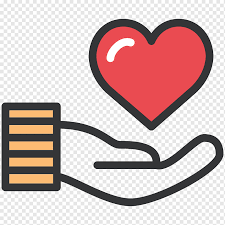
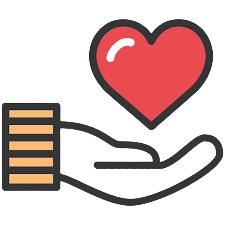
이미지 수정

diff --git a/public/order_Page/order_complite/refundComplite.html b/public/order_Page/order_complite/refundComplite.html
@@ -12,7 +12,7 @@
     <main id="main-container">
       <div class="noti_box">
         <hr />
-        <img src="public/order_Page/Image/order_complite.png" />
+        <img src="/public/order_Page/Image/order_complite.png" />
         <p style="font-size: 25px">
           <strong>
             반품 및 환불 신청이 완료되었습니다. </br> 결제 취소 시, 카드사 반영까지 2 ~ 5 일정도 소요될 수 있습니다.

diff --git a/public/order_Page/order_complite/exchangeComplite.html b/public/order_Page/order_complite/exchangeComplite.html
@@ -13,7 +13,7 @@
       <!---교환신청완료 안내-->
       <div class="noti_box">
         <hr />
-        <img src="public/order_Page/Image/order_complite.png" />
+        <img src="/public/order_Page/Image/order_complite.png" />
         <p style="font-size: 25px">
           <strong>
             교환신청이 완료되었습니다.<br />영업일 기준 3일 내에 택배기사가

diff --git a/public/order_Page/order_complite/orderComplite.html b/public/order_Page/order_complite/orderComplite.html
@@ -19,7 +19,7 @@
       <!---주문완료 안내-->
       <div class="noti_box">
         <hr />
-        <img src="public/order_Page/Image/order_complite.png" />
+        <img src="/public/order_Page/Image/order_complite.png" />
         <p style="font-size: 25px">
           <strong>
             주문이 완료되었습니다.<br />구매해주셔서 감사합니다.

diff --git a/public/order_Page/order_complite/exchangeComplite.css b/public/order_Page/order_complite/exchangeComplite.css
@@ -9,6 +9,10 @@ body {
   text-align: center;
 }
 
+img {
+  height: 75px;
+}
+
 .noti_box {
   background-color: #f9f9f9;
 }
@@ -31,6 +35,7 @@ body {
 .goHome {
   font-size: 0.8em;
   text-align: center;
+  text-decoration: none;
   width: 100px;
   height: 45px;
 }

diff --git a/public/order_Page/order_complite/refundComplite.css b/public/order_Page/order_complite/refundComplite.css
@@ -9,6 +9,10 @@ body {
   text-align: center;
 }
 
+img {
+  height: 75px;
+}
+
 .noti_box {
   background-color: #f9f9f9;
 }

diff --git a/public/order_Page/order_complite/orderComplite.css b/public/order_Page/order_complite/orderComplite.css
@@ -7,6 +7,10 @@ body {
   justify-content: center;
 }
 
+img {
+  height: 75px;
+}
+
 .receipt {
   text-align: end;
 }
